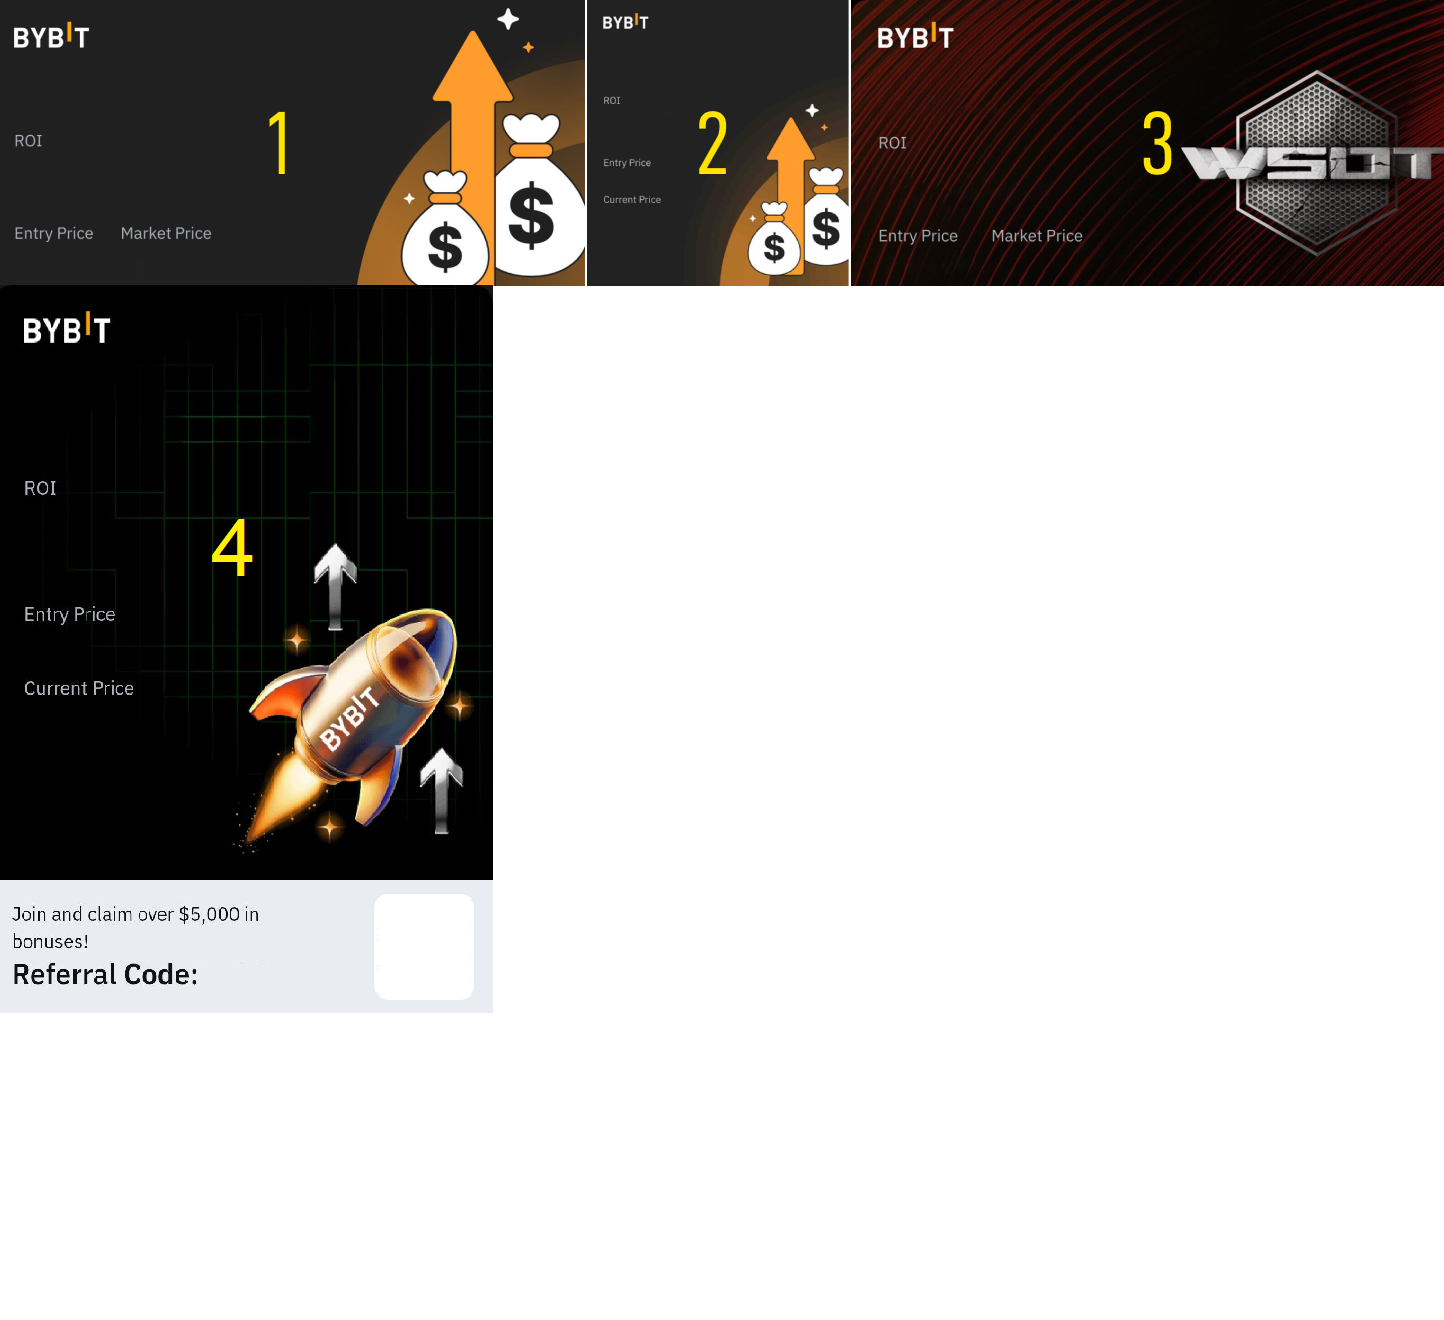
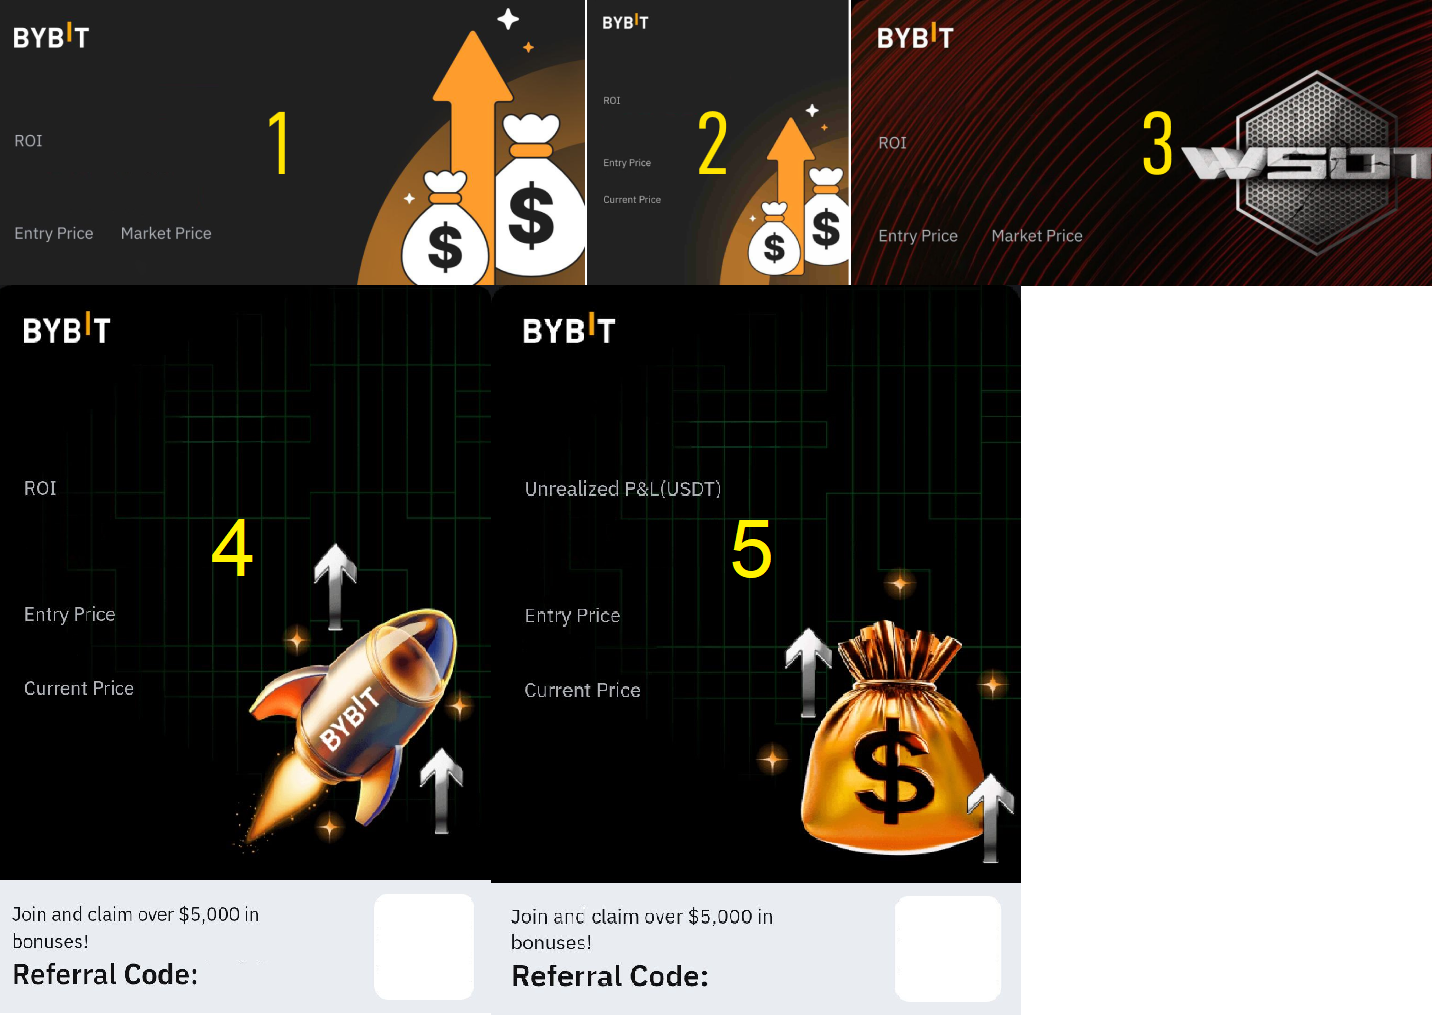
FIX: Added bybit_5 and margin input

diff --git a/handler_functions.py b/handler_functions.py
@@ -66,7 +66,7 @@ class NormalReportConv:
 
 
 class AutomaticSignalConv:
-    EXCHANGE, SAVED_SETUP, USERNAME, IMAGE, SIGNAL, TARGET, QR, REF = range(8)
+    EXCHANGE, SAVED_SETUP, USERNAME, IMAGE, SIGNAL, TARGET, QR, REF, MARGIN = range(9)
 
     @staticmethod
     async def start(update, context):
@@ -243,7 +243,7 @@ class AutomaticSignalConv:
             context.user_data["qr"] = utilities.random_qr(context.user_data["exchange"])
 
             random_setup_message = f"Random setup selected: \nReferral code: {context.user_data['qr']}\n{context.user_data['qr']}"
-            if not context.user_data["image_id"] in ["bitget_2", "bitget_4"]:
+            if not context.user_data["image_id"] in ["bitget_2", "bitget_4", "bybit_5"]:
                 await utilities.send_message(context, update, random_setup_message, is_callback_query=True)
                 await utilities.send_message(context, update, "🎉 Confirmed! Generating image...", is_callback_query=True)
 
@@ -253,6 +253,13 @@ class AutomaticSignalConv:
                     await context.bot.send_media_group(chat_id=update.callback_query.message.chat.id, media=[media])
                 await utilities.send_message(context, update, "🎉 All done! use /start to generate another image.",
                                              is_callback_query=True)
+
+            elif context.user_data["image_id"] == "bybit_5":
+                # Since bybit_5 prints the margin instead of the ROI
+                await utilities.send_message(context, update, "❓ Setup selected. Type a margin as the image needs a margin...", is_callback_query=True)
+
+                return AutomaticSignalConv.MARGIN
+
             else:
                 await utilities.send_message(context, update, random_setup_message, is_callback_query=True)
                 await utilities.send_message(context, update, "❓ Setup selected. Type a username as the image needs a username...",
@@ -266,7 +273,7 @@ class AutomaticSignalConv:
             context.user_data["qr"] = utilities.saved_setups[exchange][setup]["qr"]
             context.user_data["ref"] = utilities.saved_setups[exchange][setup]["referral"]
 
-            if not context.user_data["image_id"] in ["bitget_2", "bitget_4"]:
+            if not context.user_data["image_id"] in ["bitget_2", "bitget_4", "bybit_5"]:
                 await utilities.send_message(context, update, "🎉 Confirmed! Generating image...", is_callback_query=True)
 
                 media_group = await AutomaticSignalConv.generate_images(context, update)
@@ -275,6 +282,13 @@ class AutomaticSignalConv:
                     await context.bot.send_media_group(chat_id=update.callback_query.message.chat.id, media=[media])
                 await utilities.send_message(context, update, "🎉 All done! use /start to generate another image.",
                                              is_callback_query=True)
+
+            elif context.user_data["image_id"] == "bybit_5":
+                # Since bybit_5 prints the margin instead of the ROI
+                await utilities.send_message(context, update, "❓ Setup selected. Type a margin as the image needs a margin...", is_callback_query=True)
+
+                return AutomaticSignalConv.MARGIN
+
             else:
                 await utilities.send_message(context, update, "❓ Setup selected. Type a username as the image needs a username...",
                                              is_callback_query=True)
@@ -391,7 +405,7 @@ If the information is incorrect, use /cancel to end the process.
         context.user_data["ref"] = update.message.text
 
         # Skip to username for images that need a username
-        if not context.user_data["image_id"] in ["bitget_2", "bitget_4"]:
+        if not context.user_data["image_id"] in ["bitget_2", "bitget_4", "bybit_5"]:
             await utilities.send_message(context, update, "🎉 Confirmed! Generating image...")
 
             media_group = await AutomaticSignalConv.generate_images(context, update)
@@ -402,10 +416,32 @@ If the information is incorrect, use /cancel to end the process.
             await utilities.send_message(context, update, "🎉 All done! use /start to generate another image.")
 
             return ConversationHandler.END
+
+        elif context.user_data["image_id"] == "bybit_5":
+            # Since bybit_5 prints the margin instead of the ROI
+            await utilities.send_message(context, update, "❓ Referral set. Type a margin as the image needs a margin...", is_callback_query=True)
+
+            return AutomaticSignalConv.MARGIN
+
         else:
             await utilities.send_message(context, update, "❓ Referral set. Type a username as the image needs a username...")
 
             return AutomaticSignalConv.USERNAME
+
+    @staticmethod
+    async def margin(update, context):
+        context.user_data["margin"] = update.message.text
+
+        await utilities.send_message(context, update, "🎉 Confirmed! Generating image...")
+
+        media_group = await AutomaticSignalConv.generate_images(context, update)
+
+        for media in media_group:
+            await context.bot.send_media_group(chat_id=update.message.chat.id, media=[media])
+
+        await utilities.send_message(context, update, "🎉 All done! use /start to generate another image.")
+
+        return ConversationHandler.END
 
     @staticmethod
     async def generate_images(context, update):
@@ -456,6 +492,10 @@ If the information is incorrect, use /cancel to end the process.
 
         media_group = []
         used_money = 10
+
+        if context.user_data["image_id"] == "bybit_5":
+            used_money = float(context.user_data["margin"])
+
         qty = used_money * float(context.user_data["leverage"]) / float(context.user_data["entry"])
         for target_id, target in enumerate(targets):
             if signal_type.lower() == "long":
@@ -468,6 +508,10 @@ If the information is incorrect, use /cancel to end the process.
             net_profit = gain - loss
             roi = net_profit / used_money * 100
             roi = f"+{str(round(roi, 2))}%"
+
+            if context.user_data["image_id"] == "bybit_5":
+                roi = f"{str(round(net_profit, 2))}"
+
             image_generator.generate_image(image_name, symbol, signal_type, f"{leverage}x", roi, utilities.separate_number(entry),
                                            utilities.separate_number(target), qr, ref,
                                            f"{image_id}_{target_id}", gen_date=datetime.datetime.now(), username=username)

diff --git a/styling_dict.py b/styling_dict.py
@@ -83,14 +83,27 @@ styling_dict = {
         "referral": ElementStyling(position=Position(0.29, 0.88), font="./fonts/IBMPlexSans-SemiBold.ttf", font_size=50, color="black"),
         "qr_code": ElementStyling(position=Position(0.842, 0.793), size=150)
     },
-"bybit_4": {
+    "bybit_4": {
         "symbol": ElementStyling(position=Position(0.062, 0.17), font="./fonts/IBMPlexSans-SemiBold.ttf", font_size=60, color=(255, 255, 255)),
         "signal_type": ElementStyling(position=Position(0.116, 0.18), font="./fonts/IBMPlexSans-Regular.TTF", font_size=30, margin_x=8, margin_y=6,
                                       margin_y_mult=0.5, spacing=25, rect_radius=5, short_color=(220, 66, 90), long_color=(33, 182, 114),
                                       short_box_color=(64, 38, 39),
                                       # long_box_color=(34, 51, 45)),
-    long_box_color = (47, 72, 51)),
-"roi": ElementStyling(position=Position(0.065, 0.3), font="./fonts/IBMPlexSans-SemiBold.ttf", font_size=95, color=(33, 182, 114)),
+                                      long_box_color=(47, 72, 51)),
+        "roi": ElementStyling(position=Position(0.065, 0.3), font="./fonts/IBMPlexSans-SemiBold.ttf", font_size=95, color=(33, 182, 114)),
+        "entry": ElementStyling(position=Position(0.063, 0.468), font="./fonts/IBMPlexSans-SemiBold.ttf", font_size=45, color="white"),
+        "target": ElementStyling(position=Position(0.063, 0.57), font="./fonts/IBMPlexSans-SemiBold.ttf", font_size=45, color="white"),
+        "referral": ElementStyling(position=Position(0.425, 0.919), font="./fonts/IBMPlexSans-Medium.ttf", font_size=50, color="black"),
+        "qr_code": ElementStyling(position=Position(722 / 930, 1084 / 1280), size=161)
+    },
+    "bybit_5": {
+        "symbol": ElementStyling(position=Position(0.062, 0.17), font="./fonts/IBMPlexSans-SemiBold.ttf", font_size=60, color=(255, 255, 255)),
+        "signal_type": ElementStyling(position=Position(0.116, 0.18), font="./fonts/IBMPlexSans-Regular.TTF", font_size=30, margin_x=8, margin_y=6,
+                                      margin_y_mult=0.5, spacing=25, rect_radius=5, short_color=(220, 66, 90), long_color=(33, 182, 114),
+                                      short_box_color=(64, 38, 39),
+                                      # long_box_color=(34, 51, 45)),
+                                      long_box_color=(47, 72, 51)),
+        "roi": ElementStyling(position=Position(0.065, 0.3), font="./fonts/IBMPlexSans-SemiBold.ttf", font_size=95, color=(33, 182, 114)),
         "entry": ElementStyling(position=Position(0.063, 0.468), font="./fonts/IBMPlexSans-SemiBold.ttf", font_size=45, color="white"),
         "target": ElementStyling(position=Position(0.063, 0.57), font="./fonts/IBMPlexSans-SemiBold.ttf", font_size=45, color="white"),
         "referral": ElementStyling(position=Position(0.425, 0.919), font="./fonts/IBMPlexSans-Medium.ttf", font_size=50, color="black"),

diff --git a/image_generator.py b/image_generator.py
@@ -106,6 +106,7 @@ class Report:
             self.draw.text(xy, target, font=font, fill=target_styling.color)
 
     def draw_roi(self, roi):
+        print(roi)
         roi_styling = self.styling["roi"]
         font = ImageFont.truetype(roi_styling.font, roi_styling.font_size)
         xy = (roi_styling.position.x * self.image.size[0], roi_styling.position.y * self.image.size[1])
@@ -601,5 +602,5 @@ class OkxReport(Report):
 
 
 if mode == "dev":
-    generate_image("bybit_4.png", "XRPUSDT Perpetual", "long", "10X", "+0.16%", "0.5913", "0.5914", "okx_1", "3YML5X", "test.png",
+    generate_image("bybit_5.png", "XRPUSDT Perpetual", "long", "10X", "+0.16%", "0.5913", "0.5914", "okx_1", "3YML5X", "test.png",
                    datetime.datetime.now(), "CANPREMIUM")

diff --git a/main.py b/main.py
@@ -49,6 +49,9 @@ automatic_report_handler = ConversationHandler(
         handlers.AutomaticSignalConv.REF: [
             MessageHandler(filters.TEXT & ~filters.COMMAND, handlers.AutomaticSignalConv.ref)
         ],
+        handlers.AutomaticSignalConv.MARGIN: [
+            MessageHandler(filters.TEXT, handlers.AutomaticSignalConv.margin)
+        ],
         # handlers.AutomaticSignalConv.SELECT_TARGET: [
         #     MessageHandler(filters.TEXT & ~filters.COMMAND, handlers.AutomaticSignalConv.select_target),
         #     CommandHandler('cancel', handlers.cancel)

diff --git a/keyboards.py b/keyboards.py
@@ -50,8 +50,11 @@ image_bybit = InlineKeyboardMarkup([
         InlineKeyboardButton("ByBit 1", callback_data="bybit_1"),
         InlineKeyboardButton("ByBit 2", callback_data="bybit_2"),
         InlineKeyboardButton("ByBit 3", callback_data="bybit_3"),
-        InlineKeyboardButton("ByBit 4", callback_data="bybit_4"),
     ],
+    [
+        InlineKeyboardButton("ByBit 4", callback_data="bybit_4"),
+        InlineKeyboardButton("ByBit 5", callback_data="bybit_5")
+    ]
 ])
 
 image_bitget = InlineKeyboardMarkup([
